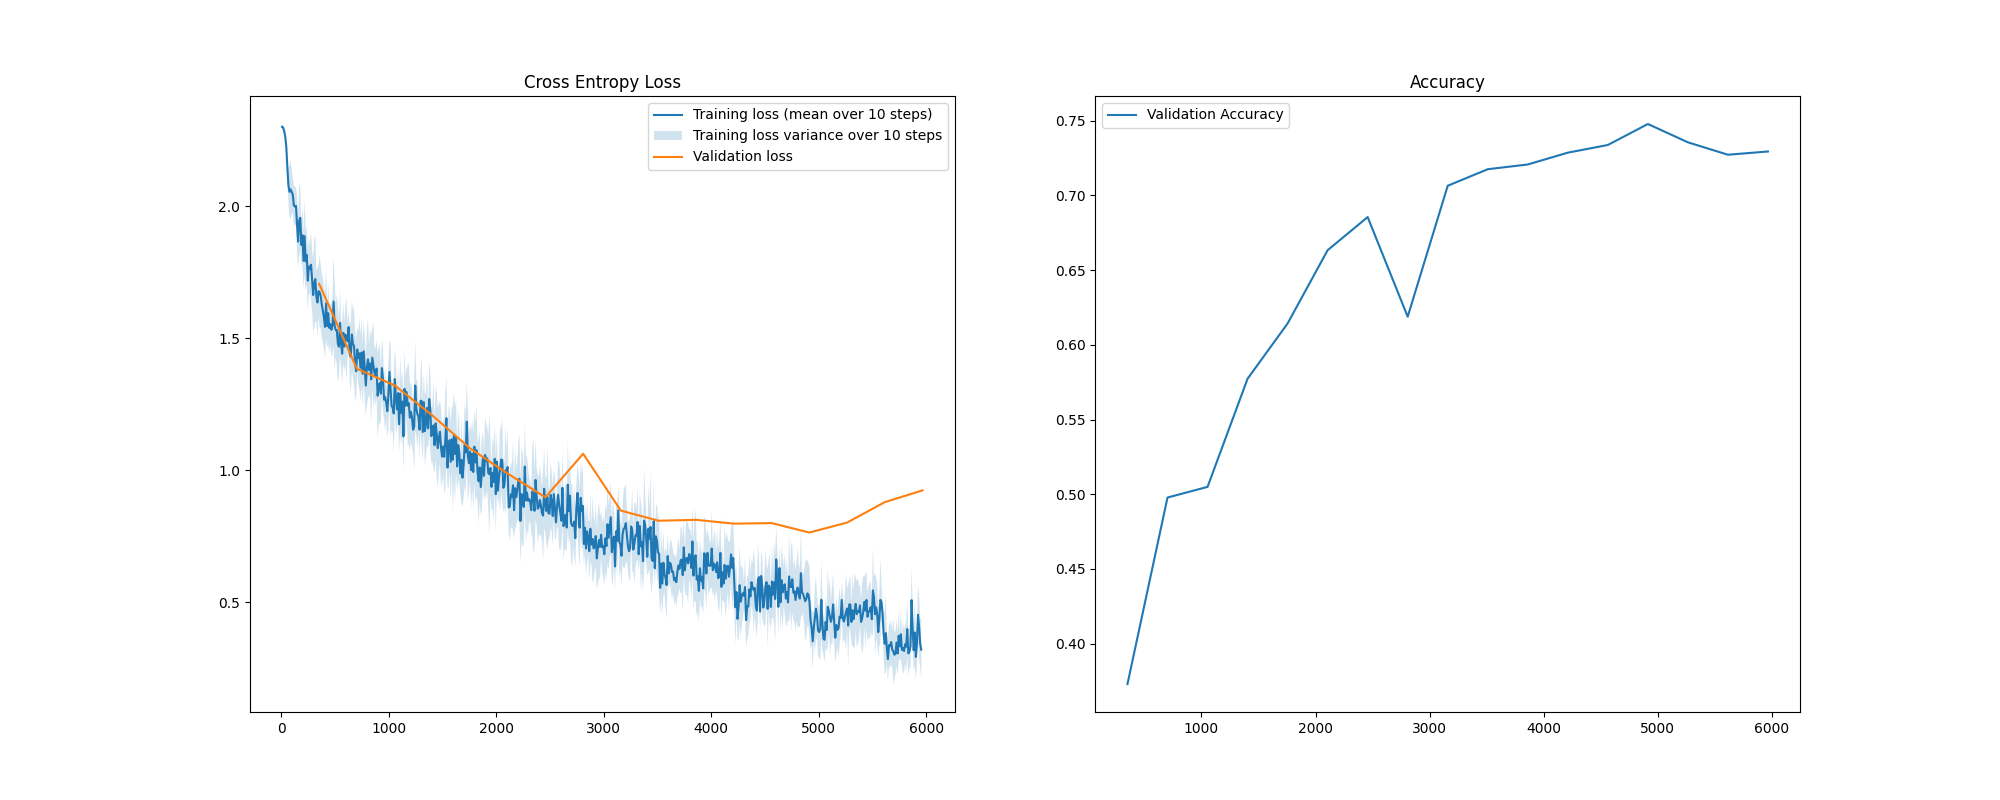
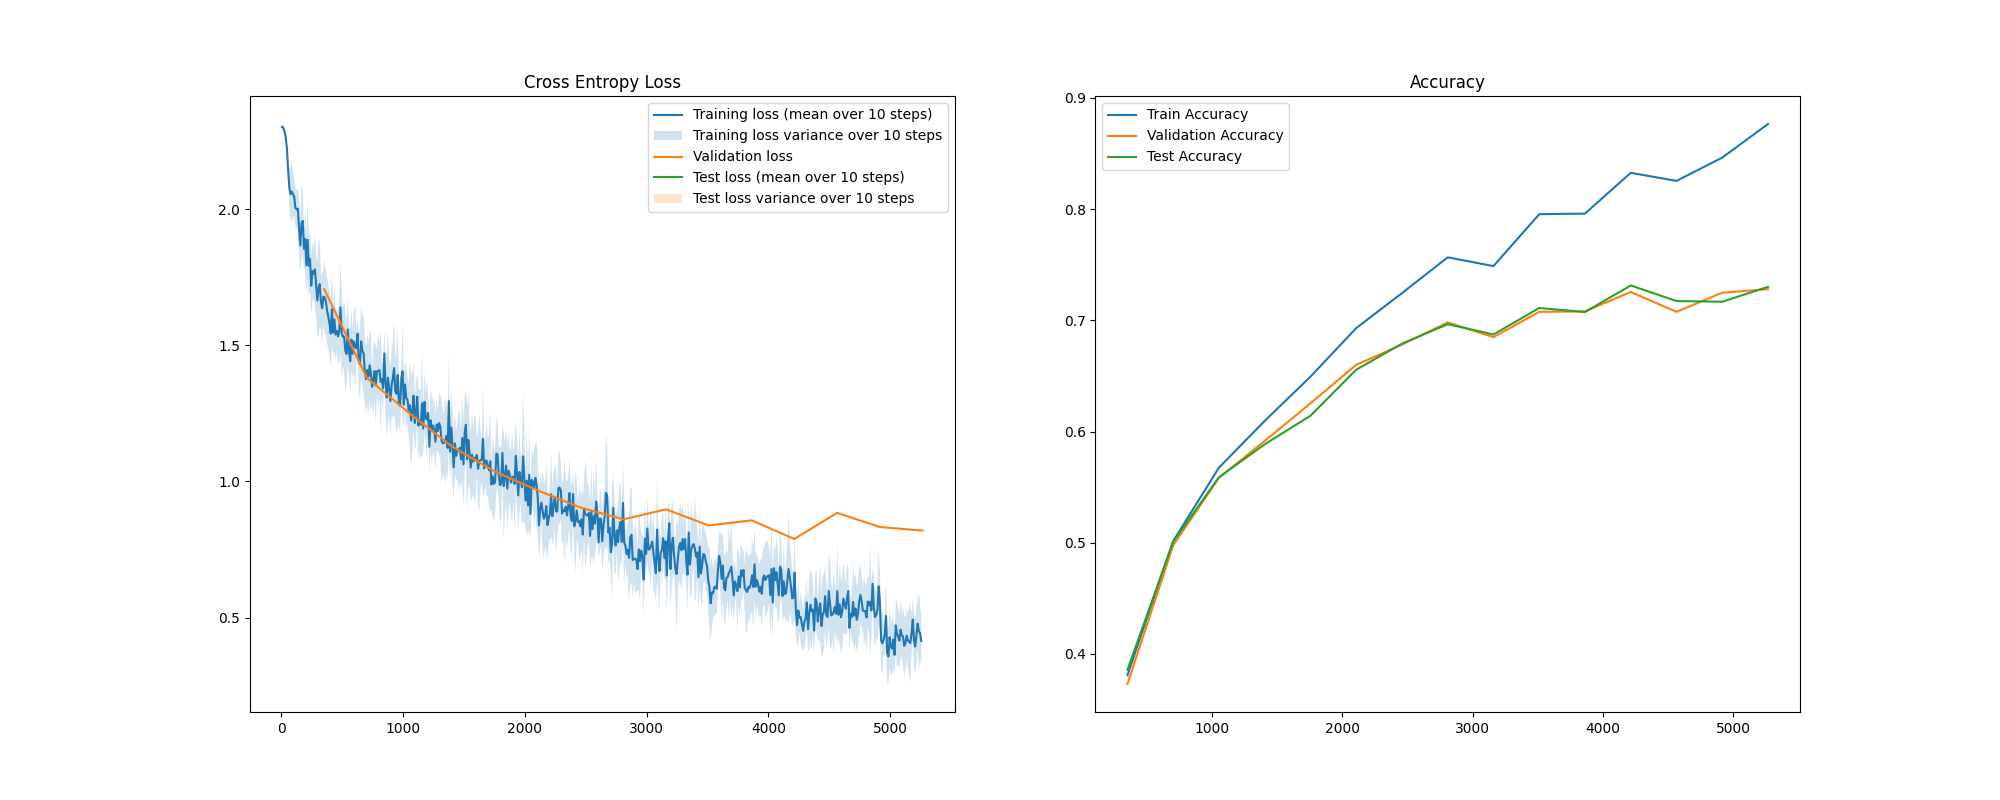
Almost finished with task3, still some bugs

diff --git a/assignment3/task3_e.py b/assignment3/task3_e.py
@@ -24,27 +24,30 @@ class Model2(nn.Module):
         self.num_classes = num_classes
         # Define the convolutional layers
         self.feature_extractor = nn.Sequential(
-            nn.Conv2d(
-                in_channels=image_channels,
-                out_channels=num_filters,
-                kernel_size=5,
-                stride=1,
-                padding=2
-            ),
+            #First hidden conv layer
+            nn.Conv2d(in_channels=image_channels, out_channels=num_filters, kernel_size=3, stride=1, padding=1),
             nn.BatchNorm2d(32),
             nn.LeakyReLU(),
-            nn.Conv2d(in_channels=32, out_channels=32, kernel_size = 5, stride = 1, padding = 2),
+
+            #Second hidden conv layer
+            nn.Conv2d(in_channels=32, out_channels=32, kernel_size = 3, stride = 1, padding = 1),
             nn.MaxPool2d(kernel_size = 2, stride = 2),
             nn.BatchNorm2d(32),
             nn.LeakyReLU(),
+
+            #Third hidden conv layer
             nn.Conv2d(in_channels=32, out_channels=64, kernel_size = 3, stride = 1, padding = 1),
             nn.MaxPool2d(kernel_size = 2, stride = 2),
             nn.BatchNorm2d(64),
             nn.LeakyReLU(),
+
+            #Fourth hidden conv layer
             nn.Conv2d(in_channels=64, out_channels=128, kernel_size = 3, stride = 1, padding = 1),
             nn.MaxPool2d(kernel_size = 2, stride = 2),
             nn.BatchNorm2d(128),
             nn.LeakyReLU(),
+
+            #Dropout
             nn.Dropout(0.25)
         )
         # The output of feature_extractor will be [batch_size, num_filters, 16, 16]
@@ -56,13 +59,21 @@ class Model2(nn.Module):
         # included with nn.CrossEntropyLoss
         self.classifier = nn.Sequential(
             nn.Flatten(), # Flattens the image from shape (batch_size, C, Height, width) to (batch_size, C*height*width)
+
+            #First linear layer
             nn.Linear(self.num_output_features, 128),
             nn.BatchNorm1d(128),
             nn.LeakyReLU(),
+
+            #Second linear layer
             nn.Linear(128,128),
             nn.BatchNorm1d(128),
             nn.LeakyReLU(),
+
+            #Dropout
             nn.Dropout(0.25),
+
+            #Third linear layer
             nn.Linear(128,num_classes)
         )
 
@@ -98,7 +109,9 @@ def create_plots(trainer: Trainer, name: str):
     plt.legend()
     plt.subplot(1, 2, 2)
     plt.title("Accuracy")
+    utils.plot_loss(trainer.train_history["accuracy"], label="Train Accuracy")
     utils.plot_loss(trainer.validation_history["accuracy"], label="Validation Accuracy")
+    utils.plot_loss(trainer.test_history["accuracy"], label="Test Accuracy")
     plt.legend()
     plt.savefig(plot_path.joinpath(f"{name}_plot.png"))
     plt.show()

diff --git a/assignment3/trainer.py b/assignment3/trainer.py
@@ -69,9 +69,9 @@ class Trainer:
         #Task 2 and Task 3 model 1
         #self.optimizer = torch.optim.SGD(self.model.parameters(), self.learning_rate)
         #Task 3 model 2
-        #self.optimizer = torch.optim.ASGD(self.model.parameters(), self.learning_rate, lambd=0.0001, alpha=0.75, t0=1000000.0, weight_decay=0)
+        self.optimizer = torch.optim.ASGD(self.model.parameters(), self.learning_rate, lambd=0.0001, alpha=0.75, t0=1000000.0, weight_decay=0)
         #Task 3 e)
-        self.optimizer = torch.optim.Adam(self.model.parameters(), self.learning_rate)
+        #self.optimizer = torch.optim.Adam(self.model.parameters(), self.learning_rate)
 
         # Load our dataset
         self.dataloader_train, self.dataloader_val, self.dataloader_test = dataloaders
@@ -107,6 +107,7 @@ class Trainer:
             Train, validation and test.
         """
         self.model.eval()
+
         validation_loss, validation_acc = compute_loss_and_accuracy(
             self.dataloader_val, self.model, self.loss_criterion
         )
@@ -125,7 +126,6 @@ class Trainer:
         self.train_history["loss"][self.global_step] = train_loss
         self.train_history["accuracy"][self.global_step] = train_acc
 
-        self
         used_time = time.time() - self.start_time
         print(
             f"Epoch: {self.epoch:>1}",

diff --git a/assignment3/task3_model1.py b/assignment3/task3_model1.py
@@ -25,13 +25,7 @@ class Model1(nn.Module):
         self.num_classes = num_classes
         # Define the convolutional layers
         self.feature_extractor = nn.Sequential(
-            nn.Conv2d(
-                in_channels=image_channels,
-                out_channels=num_filters,
-                kernel_size=3,
-                stride=1,
-                padding=1
-            ),
+            nn.Conv2d(in_channels=image_channels, out_channels=num_filters, kernel_size=3, stride=1, padding=1),
             nn.BatchNorm2d(num_filters),
             nn.ReLU(),
             nn.MaxPool2d(kernel_size = 2, stride = 2),
@@ -90,7 +84,9 @@ def create_plots(trainer: Trainer, name: str):
     plt.legend()
     plt.subplot(1, 2, 2)
     plt.title("Accuracy")
+    utils.plot_loss(trainer.train_history["accuracy"], label="Train Accuracy")
     utils.plot_loss(trainer.validation_history["accuracy"], label="Validation Accuracy")
+    utils.plot_loss(trainer.test_history["accuracy"], label="Test Accuracy")
     plt.legend()
     plt.savefig(plot_path.joinpath(f"{name}_plot.png"))
     plt.show()

diff --git a/assignment3/task2.py b/assignment3/task2.py
@@ -86,7 +86,9 @@ def create_plots(trainer: Trainer, name: str):
     plt.legend()
     plt.subplot(1, 2, 2)
     plt.title("Accuracy")
+    utils.plot_loss(trainer.train_history["accuracy"], label="Train Accuracy")
     utils.plot_loss(trainer.validation_history["accuracy"], label="Validation Accuracy")
+    utils.plot_loss(trainer.test_history["accuracy"], label="Test Accuracy")
     plt.legend()
     plt.savefig(plot_path.joinpath(f"{name}_plot.png"))
     plt.show()

diff --git a/assignment3/task3_model2.py b/assignment3/task3_model2.py
@@ -88,7 +88,9 @@ def create_plots(trainer: Trainer, name: str):
     plt.legend()
     plt.subplot(1, 2, 2)
     plt.title("Accuracy")
+    utils.plot_loss(trainer.train_history["accuracy"], label="Train Accuracy")
     utils.plot_loss(trainer.validation_history["accuracy"], label="Validation Accuracy")
+    utils.plot_loss(trainer.test_history["accuracy"], label="Test Accuracy")
     plt.legend()
     plt.savefig(plot_path.joinpath(f"{name}_plot.png"))
     plt.show()

diff --git a/assignment3/dataloaders.py b/assignment3/dataloaders.py
@@ -23,8 +23,9 @@ def load_cifar10(batch_size: int, validation_fraction: float = 0.1
     transform_train = transforms.Compose([
         transforms.ToTensor(),
         transforms.Normalize(mean, std),
-        transforms.RandomHorizontalFlip(),
-        transforms.RandomCrop(32, padding=4)
+        # transforms.RandomHorizontalFlip(),
+        # transforms.RandomCrop(32, padding=4),
+        #transforms.ColorJitter()
     ])
     
 
